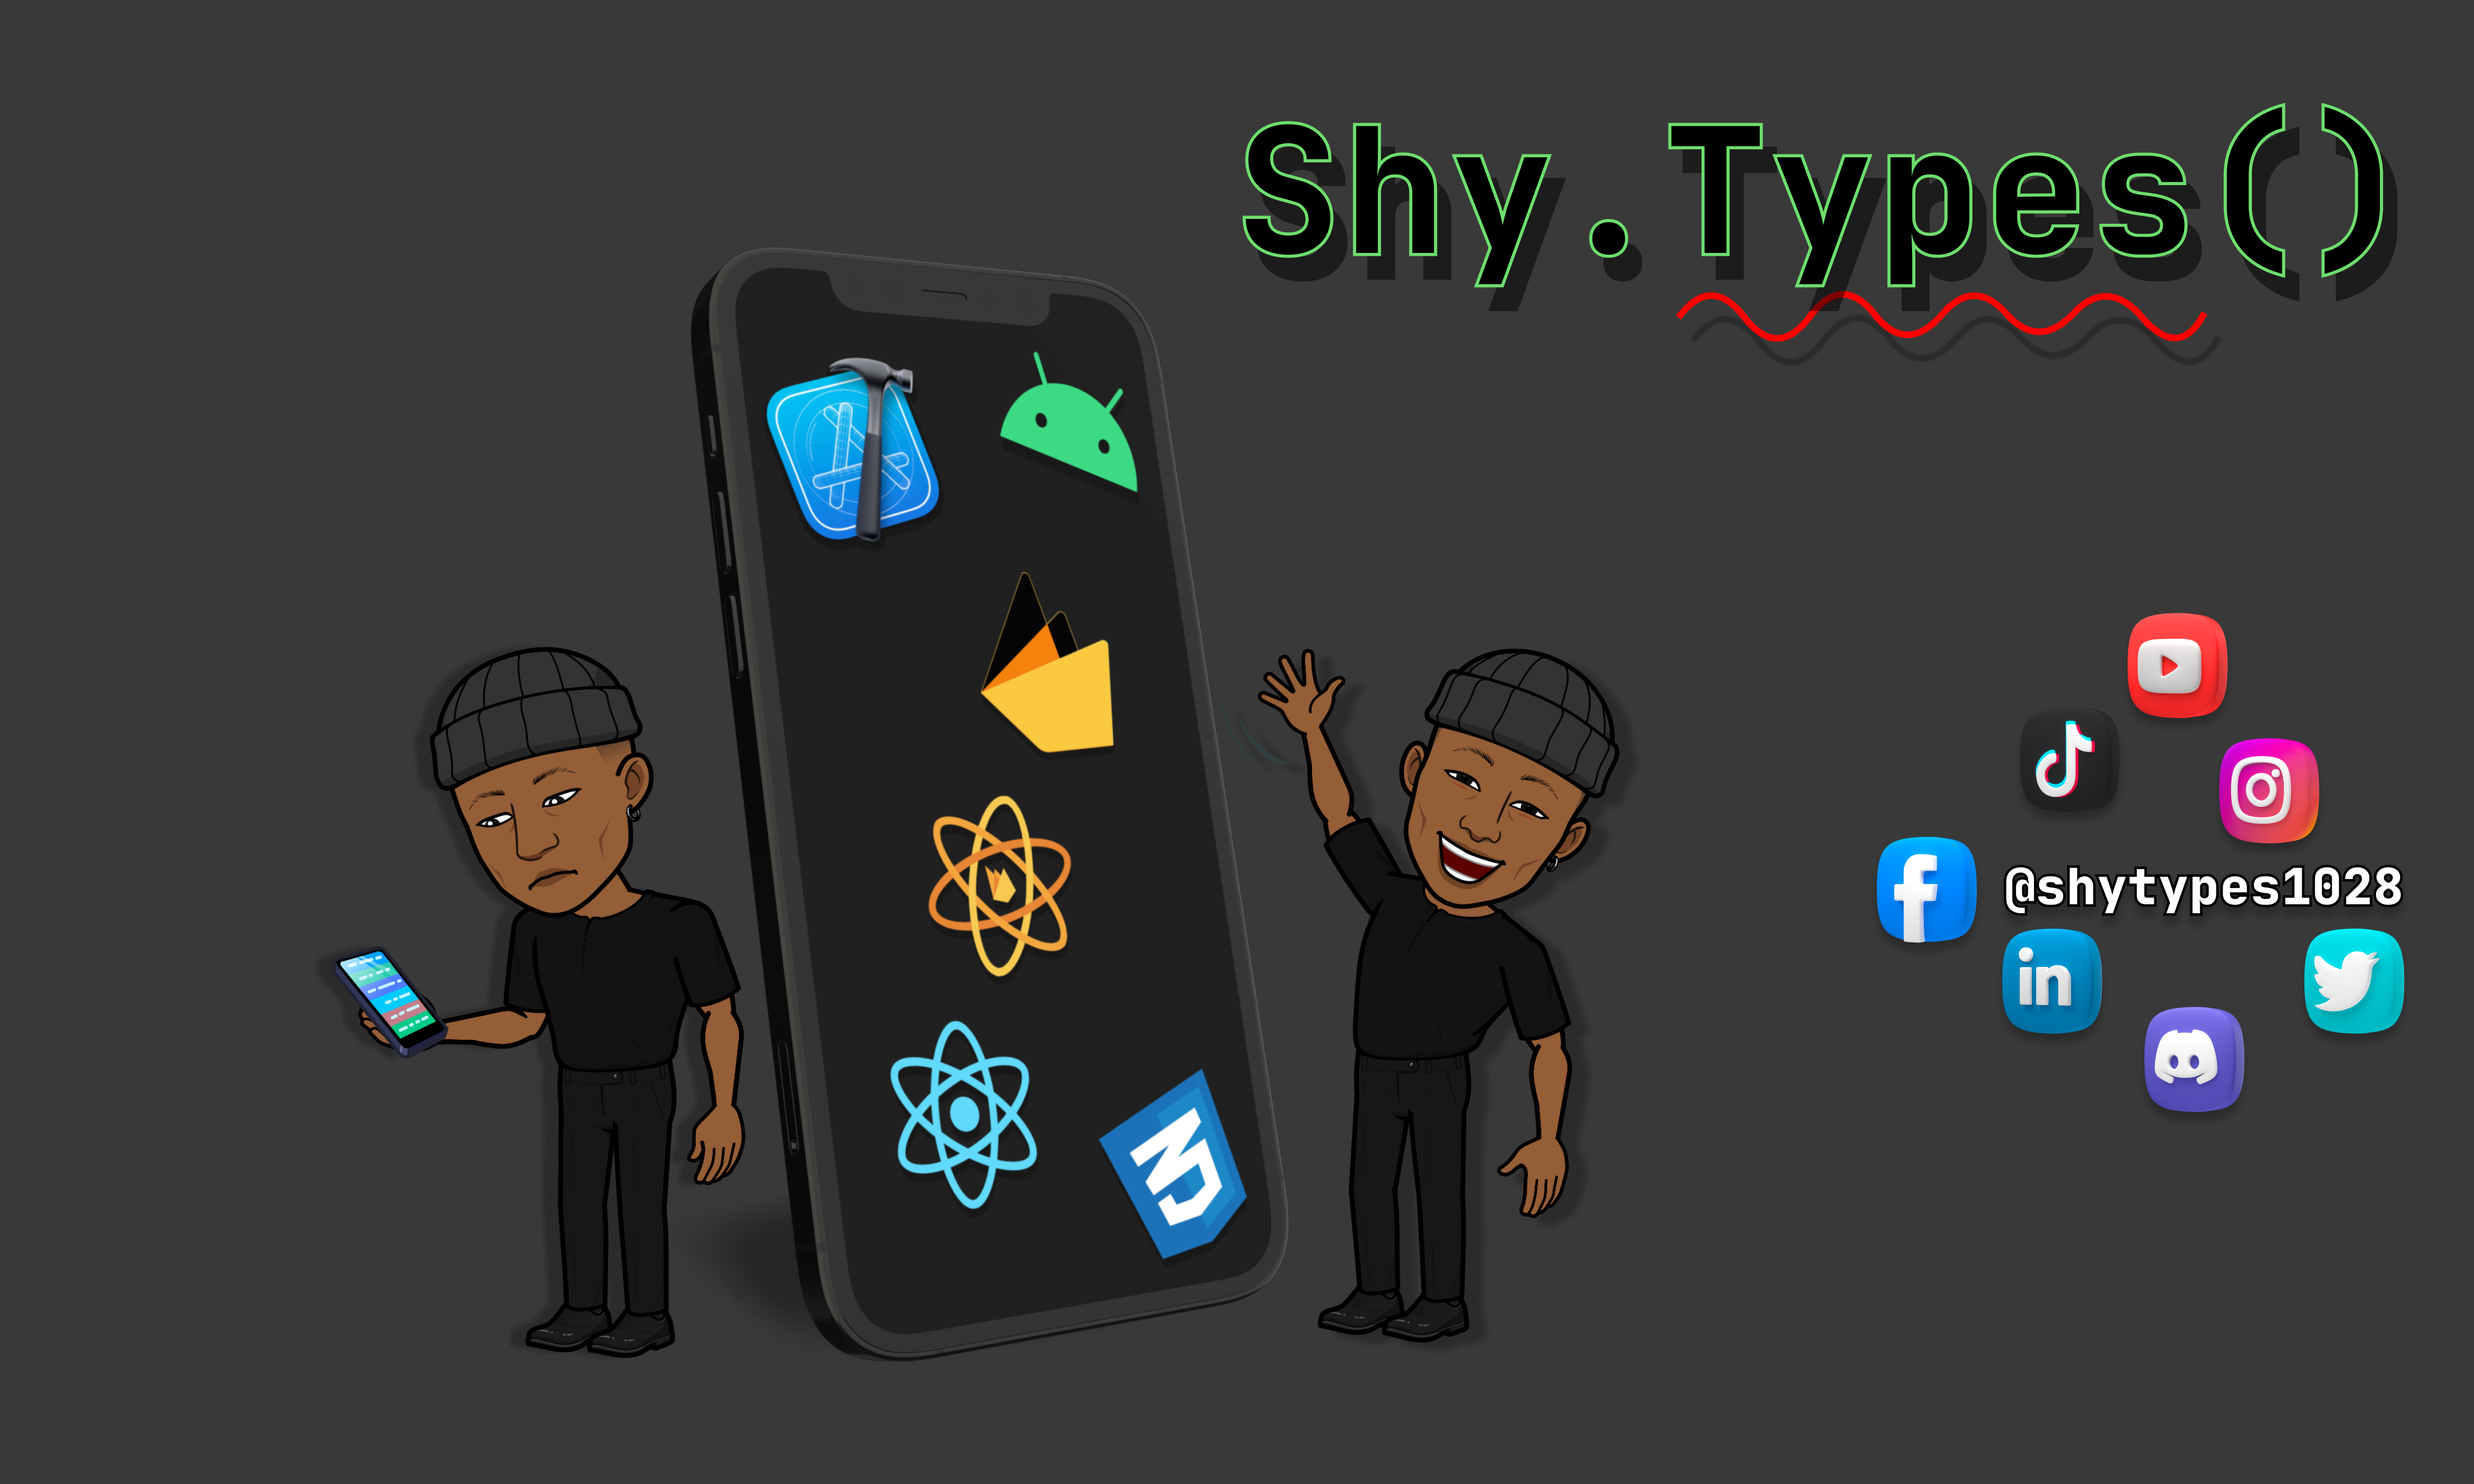
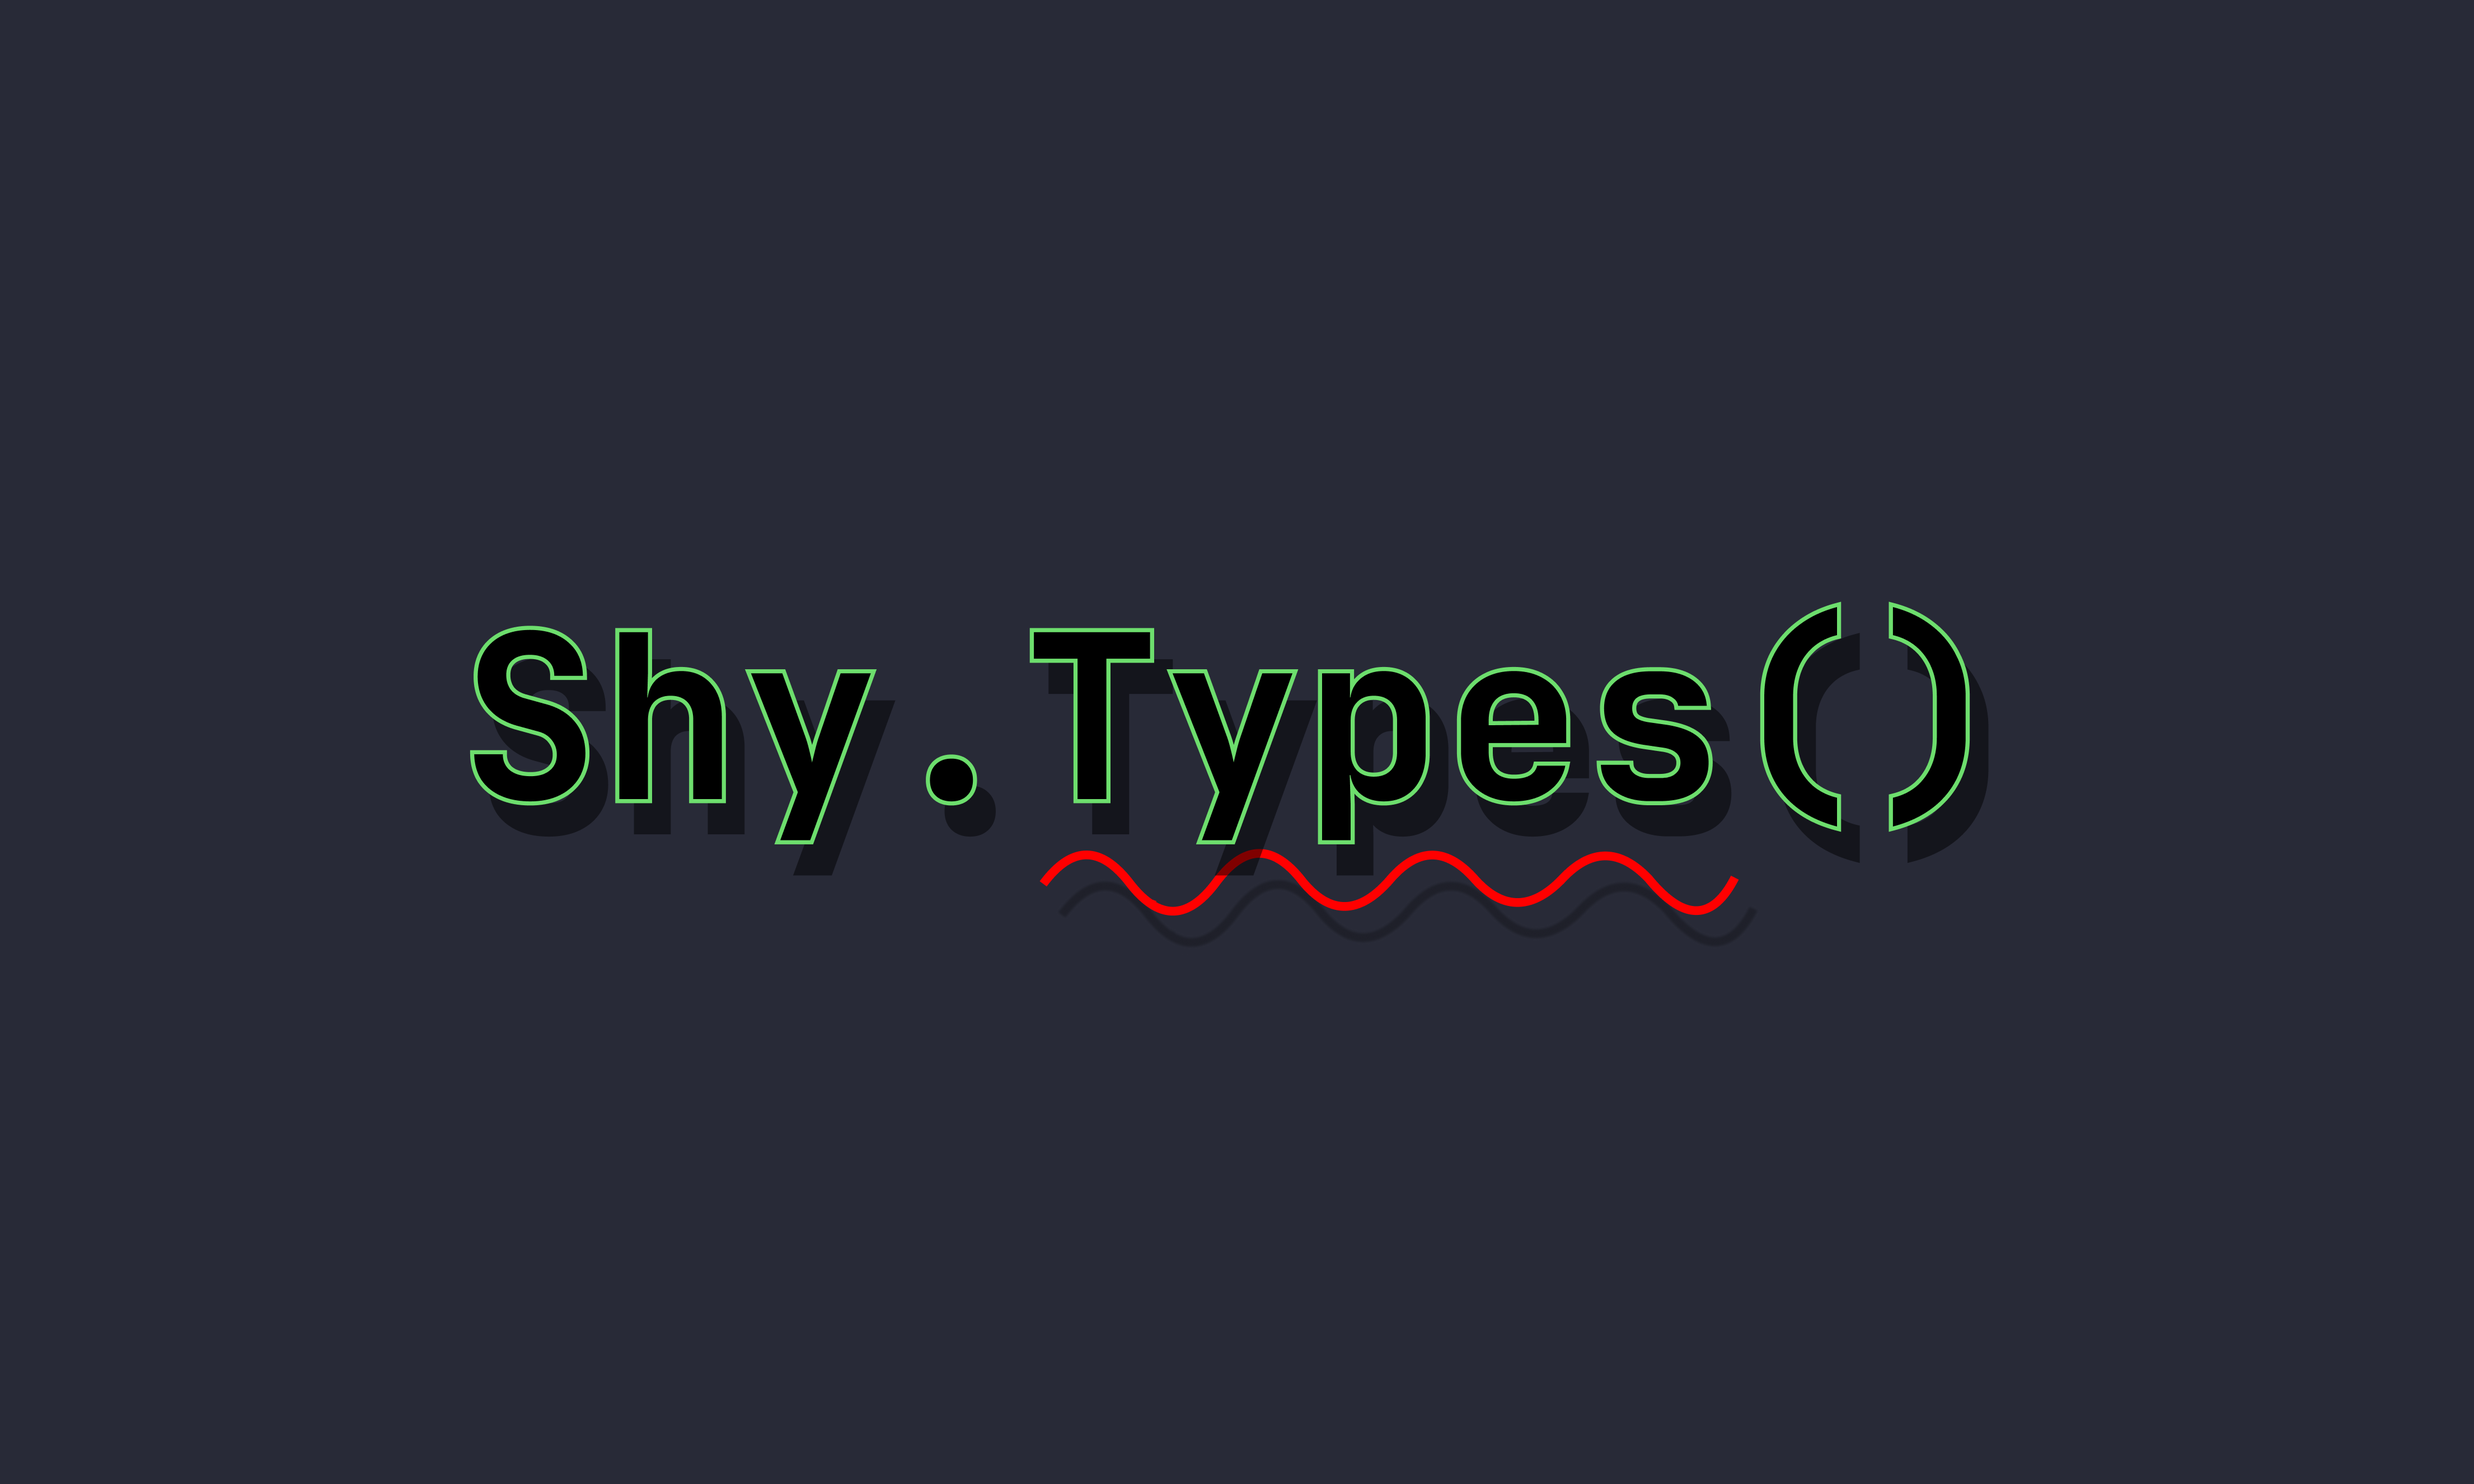
update profile

Changed region(s): [[0.1249, 0.1855, 0.9991, 0.9276], [0.4995, 0.0618, 0.9679, 0.2474]]

diff --git a/README.md b/README.md
@@ -1,87 +1,17 @@
-Hi 👋 I'm Abba. A Nigeria-based Software Engineer with 4 years of professional software development experience both within the web and mobile ecosystems respectively with a heavy passion for open source stuff.
+Hey weirdo, 
 
-<p>
-<img align="center" alt="banner image" src="./images/GitHub banner.png"/>
-</p>
+I'm Abba, aka **shytypes**, and I'm currently exploring Bitcoin and open-source Bitcoin/Lightning development.
 
-## Quick stuff
+<img alt="banner image" src="./images/GitHub banner.png"/>
 
-- I'm currently exploring the world of Bitcoin and open source software
-- I've got some cool articles on [dev.to](https://dev.to/shytypes1028)
-- I'm open to collaborations mostly around Bitcoin powered software
-- check out [My CV](https://docs.google.com/document/d/e/2PACX-1vSTdEKt7h3DofwJYMvtcqNIvRSJJEuguoCqrQD0JAMlY9grwRYqaO9dAAJ4D5rl6y9unxgQTORRhStV/pub)
-- I'm one of those weirdos who use [ Neovim ](neovim.io) as a daily driver
-<p>
-<h3><img alt="fire emoji" src="https://cdn-icons-png.flaticon.com/128/868/868776.png" hight="25" width="25"/> Connect with me :</h3>
-<a href="https://wa.me/+2347049560475" target="_blank"><img alt="whatsApp" src="https://img.shields.io/badge/WhatsApp-25D366?style=for-the-badge&logo=whatsapp&logoColor=white" /></a> <a href="abbaabamu302@gmail.com"><img alt="Gmail" src="https://img.shields.io/badge/Gmail-D14836?style=for-the-badge&logo=gmail&logoColor=white" /></a> <a href="https://abbaportfolio.netlify.app/" target="_blank"><img alt="portfolio" src="https://img.shields.io/badge/Portfolio-%23000000.svg?style=for-the-badge&logo=firefox&logoColor=#FF7139" />
-</a> <a href="https://github.com/AdamuAbba" target="_blank">
-<img src="https://img.shields.io/badge/github-%2324292e.svg?&style=for-the-badge&logo=github&logoColor=white" alt="github"/>
-</a> <a href="https://www.linkedin.com/in/abba-adamu/" target="_blank">
-<img alt="linkedIn" src="https://img.shields.io/badge/linkedin-0A66C2?style=for-the-badge&logo=linkedin&logoColor=white" />
-</a> <a href="https://twitter.com/shytypes1028" target="_blank">
-<img alt="twitter" src="https://img.shields.io/badge/twitter-1DA1F2?style=for-the-badge&logo=twitter&logoColor=white" />
-</a> <a href="https://www.instagram.com/shytypes1028/" target="_blank"><img src="https://img.shields.io/badge/Instagram-E4405F?style=for-the-badge&logo=instagram&logoColor=white" alt="instagram" />
-</a> <a href="https://www.facebook.com/izshytypes" target="_blank">
-<img src="https://img.shields.io/badge/Facebook-1877F2?style=for-the-badge&logo=facebook&logoColor=white" alt="facebook" /></a> <a href="https://www.youtube.com/channel/UChCQ7ehNTlQsylk0BY2SfJg" target="_blank">
-<img src="https://img.shields.io/badge/YouTube-%23FF0000.svg?style=for-the-badge&logo=YouTube&logoColor=white" alt="youtube" /></a>
-</p>
+- 📖 Check out my technical articles on Bitcoin/Lightning development [here](https://dev.to/shytypes1028) on dev.to
+- 💼 Here's my [C.V](https://docs.google.com/document/d/e/2PACX-1vSTdEKt7h3DofwJYMvtcqNIvRSJJEuguoCqrQD0JAMlY9grwRYqaO9dAAJ4D5rl6y9unxgQTORRhStV/pub) if you want to check it out.
+- 👾 I use [ Neovim ](https://neovim.io/) because I am also a weirdo.
+- 🌐 Find me on X: [@shytypes](https://www.x.com/shytypes1028), LinkedIn: [@shytypes](https://www.linkedin.com/in/shytypes1028/), Discord: ... I'm basically **shytypes** everywhere
 
-<p>
- <h3><img height="25" width="25" src="https://cdn-icons-png.flaticon.com/128/534/534621.png"/> Languages:</h3>
+**Contributing to**
+- [Polar](https://github.com/jamaljsr/polar) - One-click Bitcoin Lightning networks for local app development & testing
 
-![HTML5](https://img.shields.io/badge/html5-%23E34F26.svg?style=for-the-badge&logo=html5&logoColor=white) ![JavaScript](https://img.shields.io/badge/javascript-%23323330.svg?style=for-the-badge&logo=javascript&logoColor=%23F7DF1E) ![Markdown](https://img.shields.io/badge/markdown-%23000000.svg?style=for-the-badge&logo=markdown&logoColor=white) ![PHP](https://img.shields.io/badge/php-%23777BB4.svg?style=for-the-badge&logo=php&logoColor=white) ![Python](https://img.shields.io/badge/python-3670A0?style=for-the-badge&logo=python&logoColor=ffdd54) ![TypeScript](https://img.shields.io/badge/typescript-%23007ACC.svg?style=for-the-badge&logo=typescript&logoColor=white)
 
-</p>
 
-<p>
- <h3><img height="25" width="25" src="https://cdn-icons-png.flaticon.com/128/1006/1006363.png"/> Frontend:</h3>
 
-![CSS3](https://img.shields.io/badge/css3-%231572B6.svg?style=for-the-badge&logo=css3&logoColor=white) ![Styled Components](https://img.shields.io/badge/styled--components-DB7093?style=for-the-badge&logo=styled-components&logoColor=white) ![TailwindCSS](https://img.shields.io/badge/tailwindcss-%2338B2AC.svg?style=for-the-badge&logo=tailwind-css&logoColor=white) ![Webpack](https://img.shields.io/badge/webpack-%238DD6F9.svg?style=for-the-badge&logo=webpack&logoColor=black) ![Babel](https://img.shields.io/badge/Babel-F9DC3e?style=for-the-badge&logo=babel&logoColor=black) ![React](https://img.shields.io/badge/react-%2320232a.svg?style=for-the-badge&logo=react&logoColor=%2361DAFB) ![React Native](https://img.shields.io/badge/react_native-%2320232a.svg?style=for-the-badge&logo=react&logoColor=%2361DAFB) ![React Router](https://img.shields.io/badge/React_Router-CA4245?style=for-the-badge&logo=react-router&logoColor=white) ![Redux](https://img.shields.io/badge/redux-%23593d88.svg?style=for-the-badge&logo=redux&logoColor=white) ![SASS](https://img.shields.io/badge/SASS-hotpink.svg?style=for-the-badge&logo=SASS&logoColor=white) ![Laravel](https://img.shields.io/badge/laravel-%23FF2D20.svg?style=for-the-badge&logo=laravel&logoColor=white) ![MUI](https://img.shields.io/badge/MUI-%230081CB.svg?style=for-the-badge&logo=mui&logoColor=white) ![Next JS](https://img.shields.io/badge/Next-black?style=for-the-badge&logo=next.js&logoColor=white) ![Bootstrap](https://img.shields.io/badge/bootstrap-%23563D7C.svg?style=for-the-badge&logo=bootstrap&logoColor=white)
-
-</p>
-
-<p>
- <h3><img height="25" width="25" src="https://cdn-icons-png.flaticon.com/128/1383/1383395.png"/> Backend:</h3>
-
-![Prisma](https://img.shields.io/badge/Prisma-3982CE?style=for-the-badge&logo=Prisma&logoColor=white) ![MySQL](https://img.shields.io/badge/mysql-%2300f.svg?style=for-the-badge&logo=mysql&logoColor=white) ![Express.js](https://img.shields.io/badge/express.js-%23404d59.svg?style=for-the-badge&logo=express&logoColor=%2361DAFB) ![NodeJS](https://img.shields.io/badge/node.js-6DA55F?style=for-the-badge&logo=node.js&logoColor=white) ![MongoDB](https://img.shields.io/badge/MongoDB-4EA94B?style=for-the-badge&logo=mongodb&logoColor=white)
-
-</p>
-
-<p>
- <h3><img height="25" width="25" src="https://cdn-icons-png.flaticon.com/128/868/868786.png"/> Tools:</h3>
-
-![GitHub Actions](https://img.shields.io/badge/github%20actions-%232671E5.svg?style=for-the-badge&logo=githubactions&logoColor=white) ![GitHub](https://img.shields.io/badge/github-%23121011.svg?style=for-the-badge&logo=github&logoColor=white) ![Xcode](https://img.shields.io/badge/Xcode-007ACC?style=for-the-badge&logo=Xcode&logoColor=white) ![Visual Studio Code](https://img.shields.io/badge/Visual%20Studio%20Code-0078d7.svg?style=for-the-badge&logo=visual-studio-code&logoColor=white) ![Sublime Text](https://img.shields.io/badge/sublime_text-%23575757.svg?style=for-the-badge&logo=sublime-text&logoColor=important) ![Android Studio](https://img.shields.io/badge/Android%20Studio-3DDC84.svg?style=for-the-badge&logo=android-studio&logoColor=white) ![Netlify](https://img.shields.io/badge/netlify-%23000000.svg?style=for-the-badge&logo=netlify&logoColor=#00C7B7) ![Google Cloud](https://img.shields.io/badge/GoogleCloud-%234285F4.svg?style=for-the-badge&logo=google-cloud&logoColor=white) ![Firebase](https://img.shields.io/badge/firebase-%23039BE5.svg?style=for-the-badge&logo=firebase) ![Google Chrome](https://img.shields.io/badge/Google%20Chrome-4285F4?style=for-the-badge&logo=GoogleChrome&logoColor=white) ![Figma](https://img.shields.io/badge/figma-%23F24E1E.svg?style=for-the-badge&logo=figma&logoColor=white) ![Chart.js](https://img.shields.io/badge/chart.js-F5788D.svg?style=for-the-badge&logo=chart.js&logoColor=white) ![Expo](https://img.shields.io/badge/expo-1C1E24?style=for-the-badge&logo=expo&logoColor=#D04A37) ![JWT](https://img.shields.io/badge/JWT-black?style=for-the-badge&logo=JSON%20web%20tokens) ![NPM](https://img.shields.io/badge/NPM-%23CB3837.svg?style=for-the-badge&logo=npm&logoColor=white) ![WordPress](https://img.shields.io/badge/WordPress-%23117AC9.svg?style=for-the-badge&logo=WordPress&logoColor=white) ![Yarn](https://img.shields.io/badge/yarn-%232C8EBB.svg?style=for-the-badge&logo=yarn&logoColor=white) ![ESLint](https://img.shields.io/badge/ESLint-4B3263?style=for-the-badge&logo=eslint&logoColor=white) ![Notion](https://img.shields.io/badge/Notion-%23000000.svg?style=for-the-badge&logo=notion&logoColor=white) ![Postman](https://img.shields.io/badge/Postman-FF6C37?style=for-the-badge&logo=postman&logoColor=white) ![Swagger](https://img.shields.io/badge/-Swagger-%23Clojure?style=for-the-badge&logo=swagger&logoColor=white) ![App Store](https://img.shields.io/badge/App_Store-0D96F6?style=for-the-badge&logo=app-store&logoColor=white) ![Play Store](https://img.shields.io/badge/Google_Play-414141?style=for-the-badge&logo=google-play&logoColor=white) ![Jest](https://img.shields.io/badge/-jest-%23C21325?style=for-the-badge&logo=jest&logoColor=white)
-
-</p>
-
-<p>
-<h3><img height="25" width="25" src="https://cdn-icons-png.flaticon.com/128/1584/1584506.png"/> OS :</h3>
-
-![Android](https://img.shields.io/badge/Android-3DDC84?style=for-the-badge&logo=android&logoColor=white) ![Linux](https://img.shields.io/badge/Linux-FCC624?style=for-the-badge&logo=linux&logoColor=black) ![Apple](https://img.shields.io/badge/Apple-%23000000.svg?style=for-the-badge&logo=apple&logoColor=white) ![Windows](https://img.shields.io/badge/Windows-0078D6?style=for-the-badge&logo=windows&logoColor=white)
-
-</p>
-
-<p>
- <h3><img height="25" width="25" src="https://cdn-icons-png.flaticon.com/128/3195/3195510.png"/> Miscellaneous:</h3>
-
-![Arduino](https://img.shields.io/badge/-Arduino-00979D?style=for-the-badge&logo=Arduino&logoColor=white)
-
-</p>
-
-<p>
-<h3><img height="25" width="25" src="https://cdn-icons-png.flaticon.com/128/9637/9637987.png"/> Stats:</h3>
-
-![Profile views](https://komarev.com/ghpvc/?username=adamuabba&label=Profile%20views&color=blueviolet&style=for-the-badge)
-
-<p>
-
-![Profile trophy](https://github-profile-trophy.vercel.app/?username=adamuabba&theme=radical)
-
-</p>
-
-<img align="center" src="https://github-readme-stats.vercel.app/api/top-langs?username=adamuabba&show_icons=true&locale=en&layout=compact&theme=cobalt" /> <img align="center" src="https://github-readme-stats.vercel.app/api?username=adamuabba&show_icons=true&locale=en&theme=cobalt" />
-
-<p>
-<img align="center" src="https://github-readme-streak-stats.herokuapp.com/?user=adamuabba&theme=cobalt" /> <img align="center" src="https://github-readme-stats.vercel.app/api/wakatime?username=shyX&theme=cobalt&layout=compact" />
-</p>
-</p>
